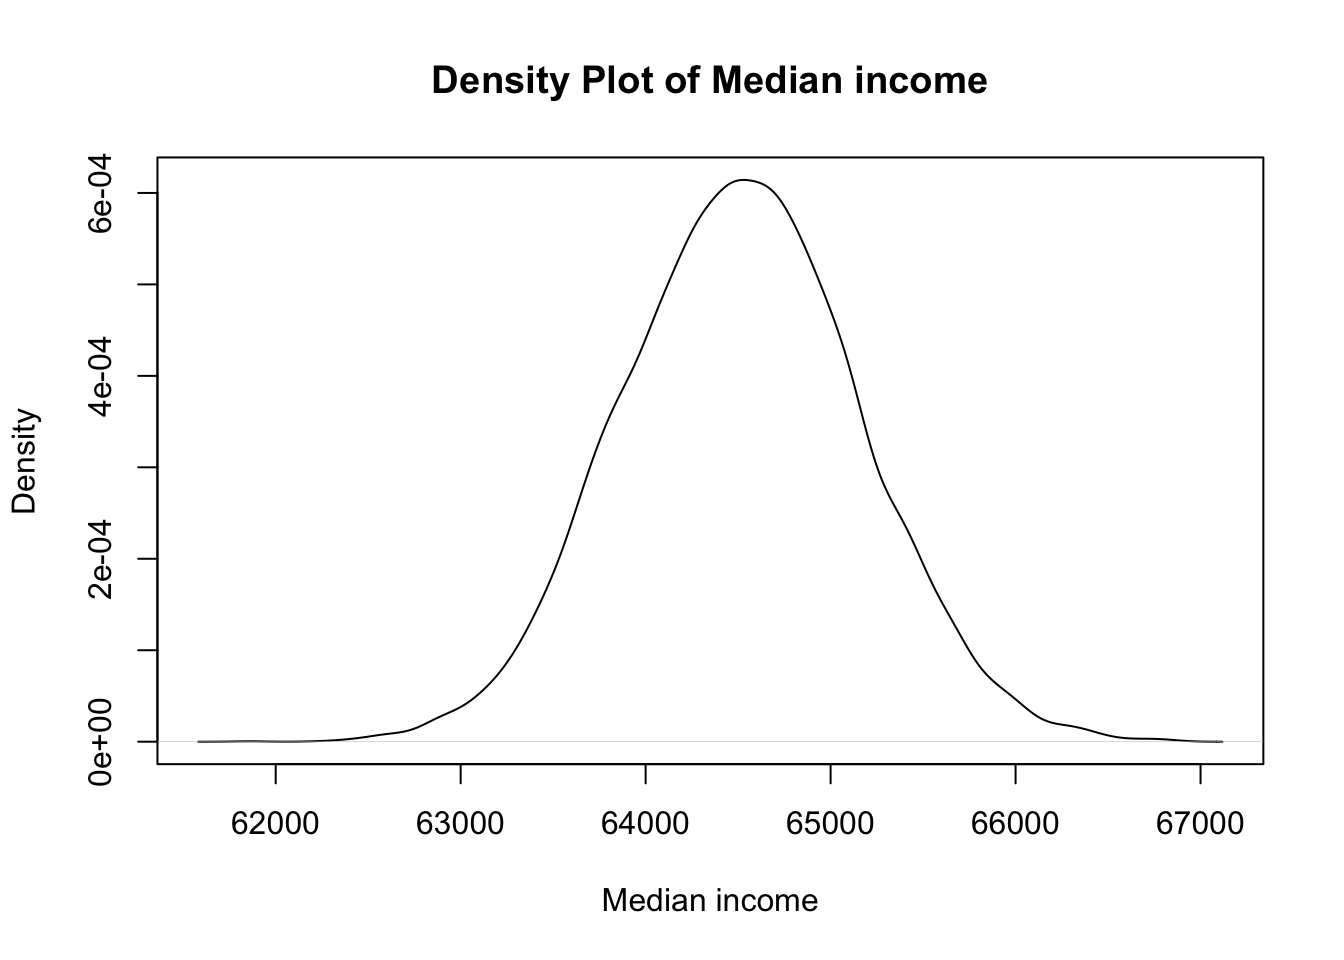
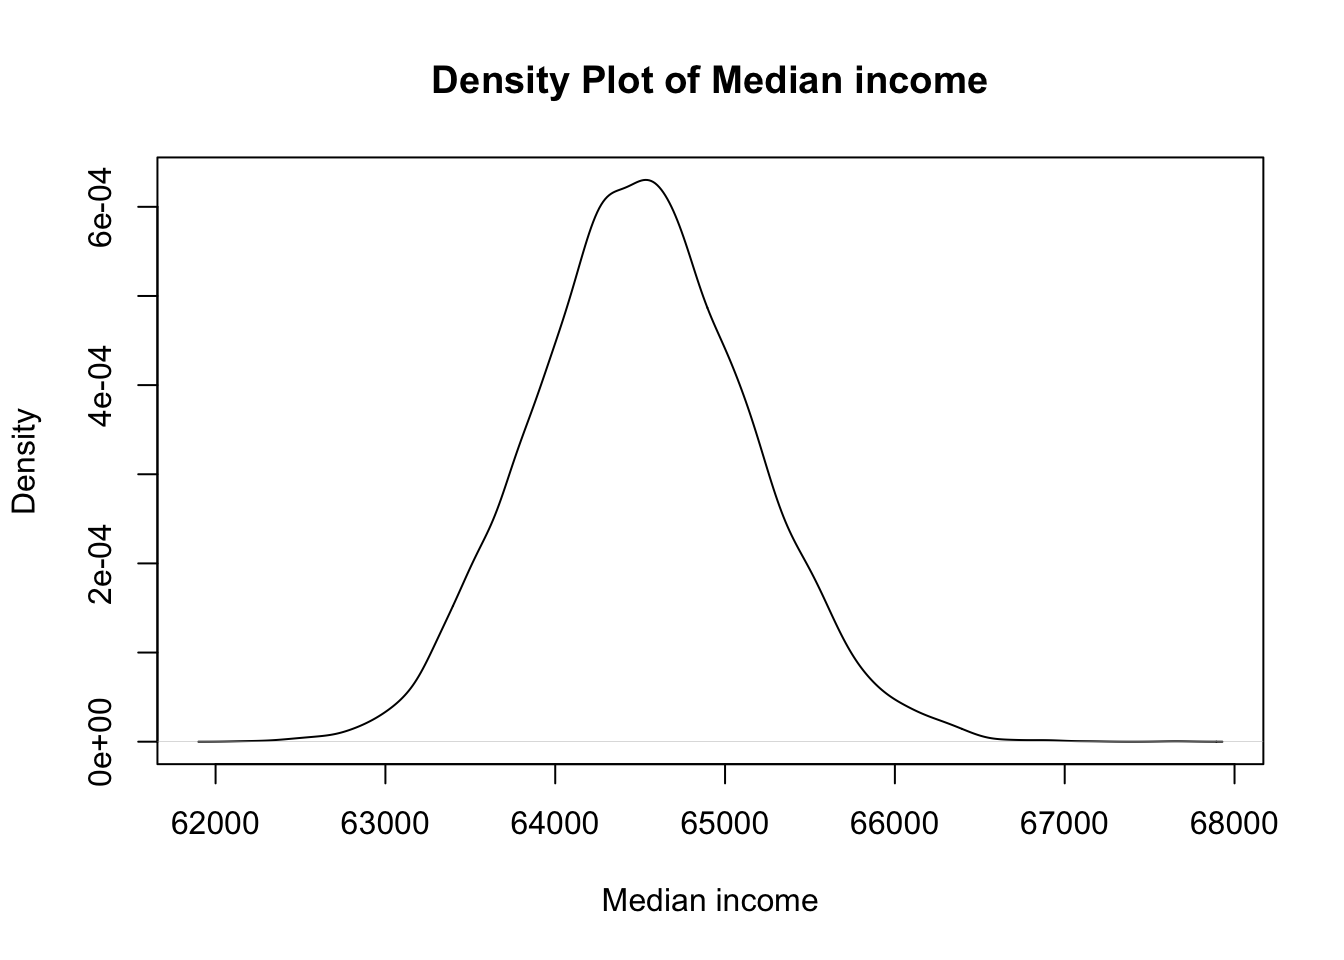
.column-margin

diff --git a/docs/posts/montecarlo.html b/docs/posts/montecarlo.html
@@ -169,7 +169,7 @@ window.Quarto = {
 <meta property="og:site_name" content="knotes">
 </head>
 
-<body class="nav-sidebar floating nav-fixed">
+<body class="nav-sidebar floating nav-fixed slimcontent">
 
 <div id="quarto-search-results"></div>
   <header id="quarto-header" class="headroom fixed-top">
@@ -818,7 +818,7 @@ window.Quarto = {
 </nav>
     </div>
 <!-- main -->
-<main class="content" id="quarto-document-content">
+<main class="content page-columns page-full" id="quarto-document-content">
 
 <header id="title-block-header" class="quarto-title-block default"><nav class="quarto-page-breadcrumbs quarto-title-breadcrumbs d-none d-lg-block" aria-label="breadcrumb"><ol class="breadcrumb"><li class="breadcrumb-item">Blog</li><li class="breadcrumb-item"><a href="../posts/EV battery.html">Posts</a></li><li class="breadcrumb-item"><a href="../posts/montecarlo.html">Income distribution</a></li></ol></nav>
 <div class="quarto-title">
@@ -883,11 +883,14 @@ Income distribution is not normal
 <h2 class="anchored" data-anchor-id="parameters-of-pareto-distribution">Parameters of Pareto distribution</h2>
 <p>The Pareto distribution can be described with only 2 simple parameters, ⍺ and xm.</p>
 </section>
-<section id="sec-cal" class="level2">
+<section id="sec-cal" class="level2 page-columns page-full">
 <h2 class="anchored" data-anchor-id="sec-cal">Calculating the 𝛂</h2>
 <p>If the Pareto ratio is x:y,</p>
 <p><span class="math display">\[𝛼 = log(x+y)/log(x)\]</span></p>
-<p>Here, the <span class="math display">\[𝛼=log(41)/log(40)\]</span></p>
+
+<div class="no-row-height column-margin column-container"><div class="">
+<p>Exact formula is log<sub>x</sub>(x+y)</p>
+</div></div><p>Here, <span class="math display">\[𝛼=log(41)/log(40)\]</span></p>
 <p>⍺ = 1.0067</p>
 <p>Smaller the ⍺, the larger the proportion of very high-income people and vice verse. Here we can that the index is very low, close to 1.</p>
 </section>
@@ -972,7 +975,7 @@ Income distribution is not normal
 </details>
 <div class="cell-output cell-output-stdout">
 <pre><code>     Min.   1st Qu.    Median      Mean   3rd Qu.      Max. 
-   206922    295955    344899    668662    439677 511731225 </code></pre>
+   204830    294381    341625    551151    437828 206009449 </code></pre>
 </div>
 <details open="" class="code-fold">
 <summary>Code</summary>
@@ -980,7 +983,7 @@ Income distribution is not normal
 </details>
 <div class="cell-output cell-output-stdout">
 <pre><code>   Min. 1st Qu.  Median    Mean 3rd Qu.    Max. 
-  61857   64076   64514   64514   64944   66843 </code></pre>
+  62173   64081   64501   64512   64938   67655 </code></pre>
 </div>
 <details open="" class="code-fold">
 <summary>Code</summary>
@@ -988,7 +991,7 @@ Income distribution is not normal
 </details>
 <div class="cell-output cell-output-stdout">
 <pre><code>     Min.   1st Qu.    Median      Mean   3rd Qu.      Max. 
-9.799e+05 3.345e+06 5.730e+06 3.748e+07 1.223e+07 5.109e+10 </code></pre>
+8.613e+05 3.261e+06 5.550e+06 2.572e+07 1.210e+07 2.056e+10 </code></pre>
 </div>
 </div>
 </section>

diff --git a/docs/posts.html b/docs/posts.html
@@ -923,7 +923,7 @@ Categories
 <span class="listing-categories">technology, ev</span>
 </td>
 </tr>
-<tr data-index="1" data-categories="Monte Carlo simulation,economics" data-listing-date-sort="1716143400000" data-listing-file-modified-sort="1716187204669" data-listing-date-modified-sort="NaN" data-listing-reading-time-sort="7" data-listing-word-count-sort="1373" data-listing-title-sort="Income distribution" data-listing-filename-sort="montecarlo.qmd">
+<tr data-index="1" data-categories="Monte Carlo simulation,economics" data-listing-date-sort="1716143400000" data-listing-file-modified-sort="1716191242878" data-listing-date-modified-sort="NaN" data-listing-reading-time-sort="7" data-listing-word-count-sort="1376" data-listing-title-sort="Income distribution" data-listing-filename-sort="montecarlo.qmd">
 <td>
 <span class="listing-date">May 20, 2024</span>
 </td>

diff --git a/docs/Revision notes/Diagrams/diagrams.html b/docs/Revision notes/Diagrams/diagrams.html
@@ -1255,7 +1255,7 @@ window.document.addEventListener("DOMContentLoaded", function (event) {
 </div>
   </div>
 </footer>
-<script>var lightboxQuarto = GLightbox({"loop":false,"selector":".lightbox","descPosition":"bottom","openEffect":"zoom","closeEffect":"zoom"});
+<script>var lightboxQuarto = GLightbox({"selector":".lightbox","descPosition":"bottom","loop":false,"openEffect":"zoom","closeEffect":"zoom"});
 window.onload = () => {
   lightboxQuarto.on('slide_before_load', (data) => {
     const { slideIndex, slideNode, slideConfig, player, trigger } = data;
